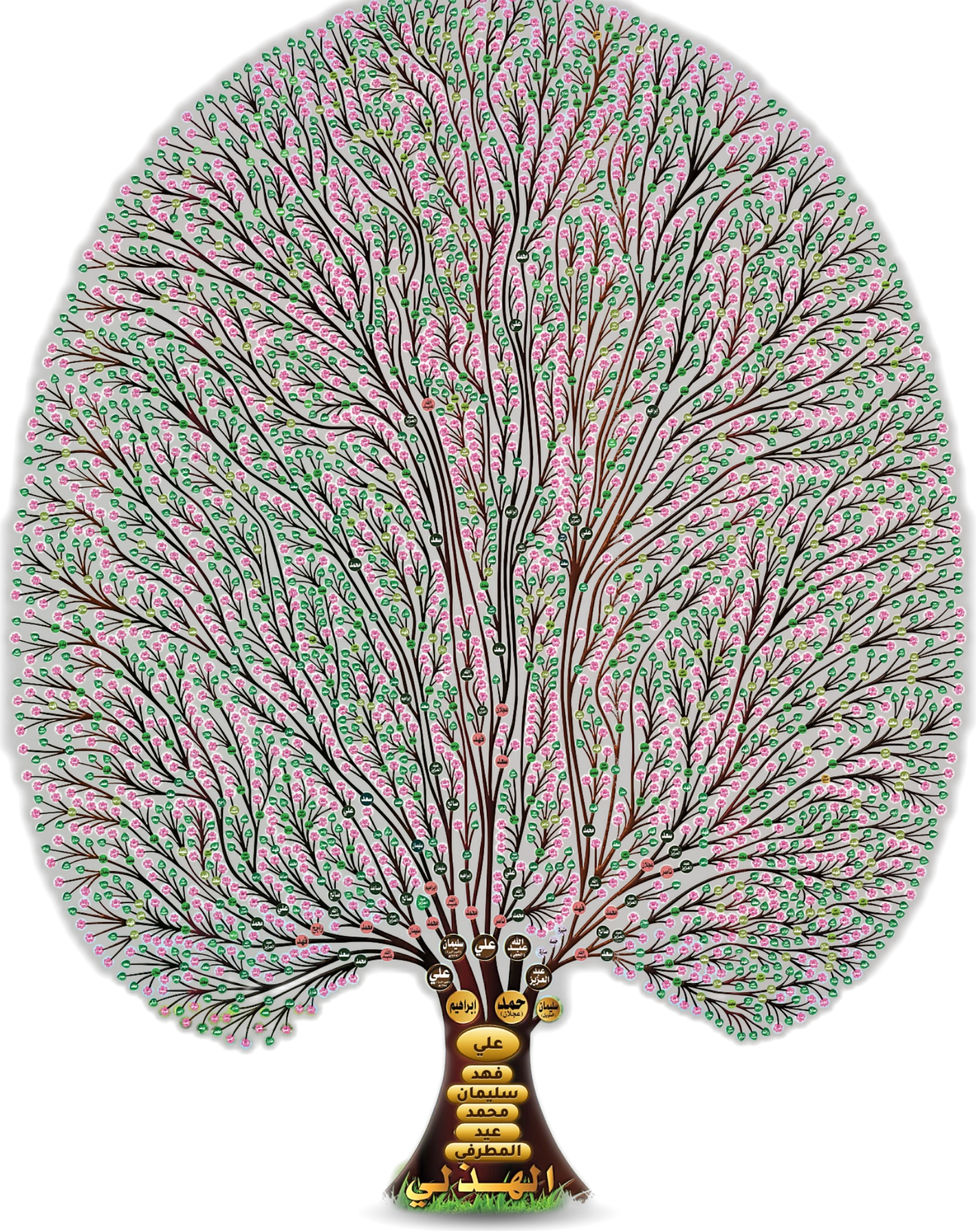
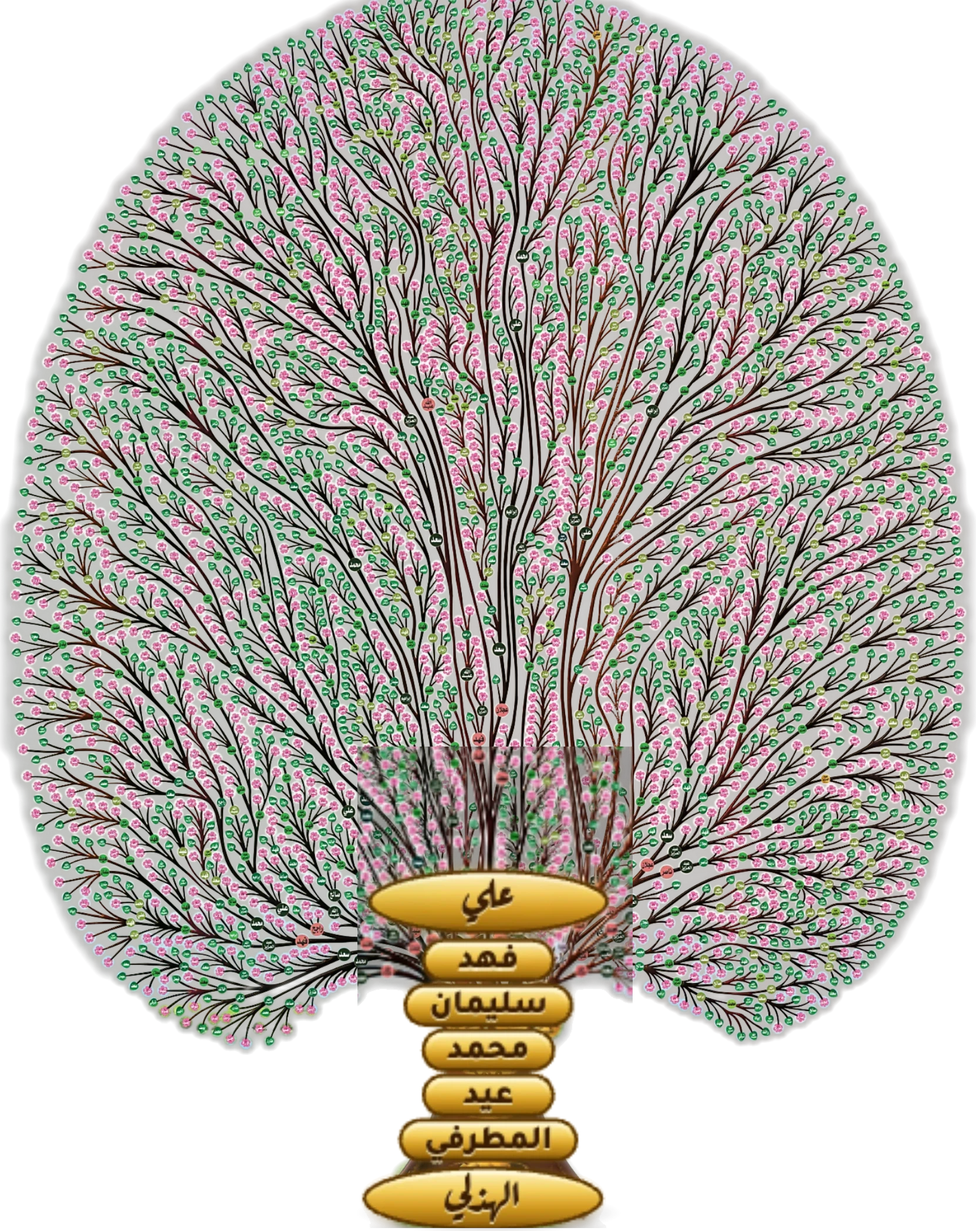
Phone homepage tree: readable trunk names without zooming

Changed region(s): [[0.368, 0.5884, 0.6747, 1.0]]

diff --git a/portal/index.html b/portal/index.html
@@ -35,7 +35,7 @@
       <div class="halo"></div>
       <div class="st" id="st">
         <div class="ground"></div><div class="gbar" id="gbar"></div>
-        <picture><source media="(max-width:1023px)" srcset="img/v7tree-sm.webp 831w, img/v7tree.webp 1663w" sizes="400px"><img src="img/tree-cut.webp" srcset="img/tree-cut-sm.webp 895w, img/tree-cut.webp 1790w" sizes="400px" alt="شجرة عائلة العجلان والعيد" id="treeImg"></picture>
+        <picture><source media="(max-width:1023px)" srcset="img/v7tree-sm.webp?v=2 831w, img/v7tree.webp?v=2 1663w" sizes="400px"><img src="img/tree-cut.webp" srcset="img/tree-cut-sm.webp 895w, img/tree-cut.webp 1790w" sizes="400px" alt="شجرة عائلة العجلان والعيد" id="treeImg"></picture>
         <img class="soilimg" src="img/soil.webp?v=2" alt="" aria-hidden="true"><canvas id="rockets"></canvas>
       </div>
       <span class="live" id="live" hidden></span><a class="tlink" href="../v7/index.html"><svg width="14" height="14" viewBox="0 0 24 24" fill="none" stroke="currentColor" stroke-width="2.4" stroke-linecap="round"><circle cx="11" cy="11" r="7"/><path d="M21 21l-4.3-4.3"/></svg>ابحث عن اسمك</a>
